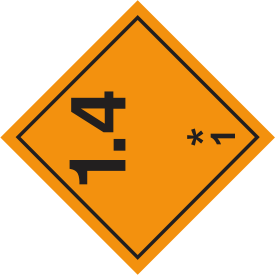
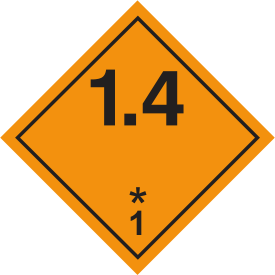
Rotate the label crops upright and retire the debug renders
The print rotates the table content 90 degrees on the page, so the
crops came out sideways; rotated in place, the rotation recorded in
label_crops.json and applied by the extractor for future runs. All
22 models of 5.2.2.2.2 now sit in scripts/un_cards/assets/labels as
the official artwork, upright, white-trimmed, at 300 dpi. The _debug
page renders served their purpose and leave the tree.

Claude-Session: https://claude.ai/code/session_01UcwS4i3KjpHVZmRCFJPkfe

diff --git a/scripts/extract_adr_label_models.py b/scripts/extract_adr_label_models.py
@@ -73,6 +73,19 @@ def trim_white(pix: fitz.Pixmap) -> fitz.Pixmap:
     return fitz.Pixmap(pix.colorspace, new_w, new_h, b"".join(rows), pix.alpha)
 
 
+def rotate_clockwise(pix: fitz.Pixmap) -> fitz.Pixmap:
+    """The print rotates the table content 90 degrees; this restores it."""
+    w, h, n = pix.width, pix.height, pix.n
+    s = pix.samples
+    out = bytearray(w * h * n)
+    for ys in range(h):
+        for xs in range(w):
+            di = (xs * h + (h - 1 - ys)) * n
+            si = (ys * w + xs) * n
+            out[di:di + n] = s[si:si + n]
+    return fitz.Pixmap(pix.colorspace, h, w, bytes(out), pix.alpha)
+
+
 def extract(vol: Path, out_dir: Path) -> dict:
     spec = json.loads(CROPS.read_text(encoding="utf-8"))
     doc = fitz.open(str(vol))
@@ -82,6 +95,8 @@ def extract(vol: Path, out_dir: Path) -> dict:
         page = doc[entry["page"] - 1]
         clip = fitz.Rect(entry["rect"])
         pix = trim_white(page.get_pixmap(clip=clip, dpi=RENDER_DPI))
+        if spec.get("rotate_clockwise_degrees") == 90:
+            pix = rotate_clockwise(pix)
         if pix.width < 100 or pix.height < 100:
             report["failed"].append(
                 {"model": code, "reason": f"crop trimmed to {pix.width}x{pix.height}"})
